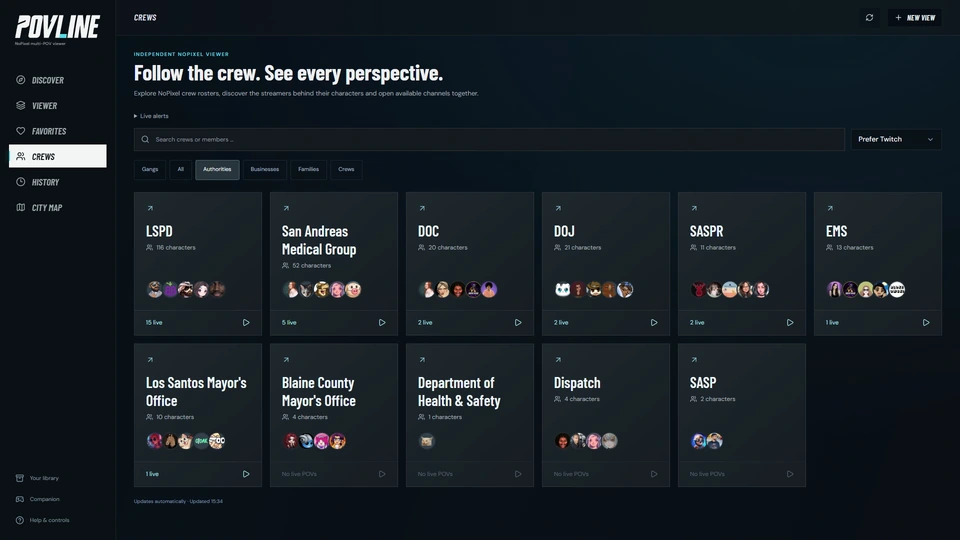
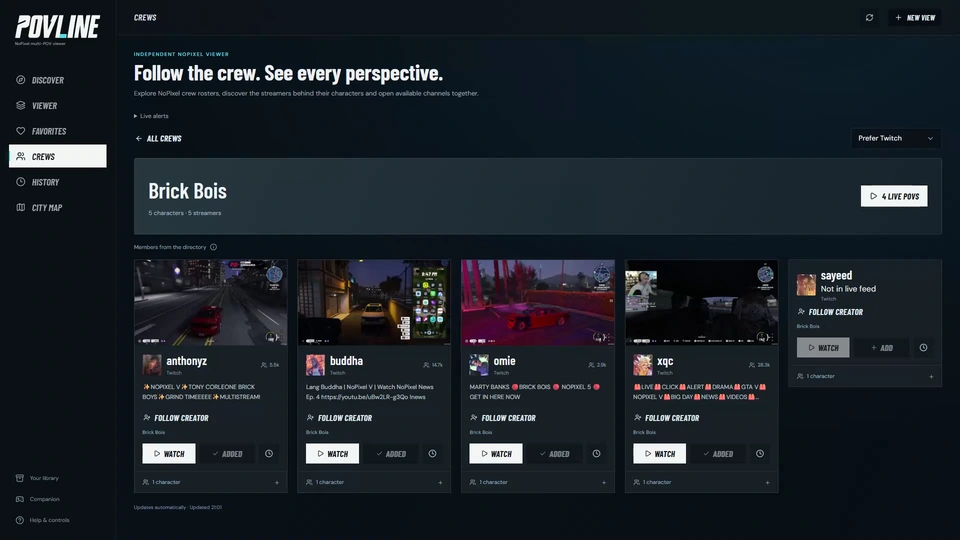
Refresh POVLINE screenshots with the live Brick Bois crew

diff --git a/src/portfolio.ts b/src/portfolio.ts
@@ -353,10 +353,10 @@ export const work: CaseStudy[] = [
     "imageWidth": 1920,
     "imageHeight": 1080,
     "alt": {
-      "en": "POVLINE’s actual four-pane viewer with Twitch and Kick stream previews for an LSPD crew."
+      "en": "POVLINE’s actual four-pane Brick Bois workspace with live Twitch channel previews from anthonyz, buddha, omie, and xqc."
     },
     "caption": {
-      "en": "Four-pane workspace · source-provided stream previews"
+      "en": "Brick Bois · four perspectives · source-provided live previews"
     },
     "intro": {
       "en": "A roleplay story unfolds across people, channels, and places. Following it through separate stream tabs loses the connections. POVLINE is an independent NoPixel viewing companion that joins those pieces: discover creators and crews, assemble the perspectives you care about, explore reported city events, and return to moments through broadcast history. I built the product experience and the data infrastructure together."
@@ -404,10 +404,10 @@ export const work: CaseStudy[] = [
         "imageWidth": 1920,
         "imageHeight": 1080,
         "alt": {
-          "en": "POVLINE’s actual authorities crew directory showing LSPD, medical, justice and other groups with roster sizes and available live perspectives."
+          "en": "POVLINE’s Brick Bois roster with five creators, four available live perspectives, stream previews, and controls for following or opening the crew together."
         },
         "caption": {
-          "en": "Crew discovery · public community data"
+          "en": "Brick Bois roster · four live perspectives · public community data"
         },
         "title": {
           "en": "Follow people, not a pile of tabs."

diff --git a/VERIFICATION.md b/VERIFICATION.md
@@ -5,6 +5,20 @@ Deployment status is reported by the connected GitHub/Cloudflare checks.
 
 ## Completed
 
+## POVLINE screenshot refresh — 5 October 2026
+
+- Replaced the viewer and crew-discovery images with genuine 1920×1080 captures
+  from the running POVLINE application while four Brick Bois channels were live:
+  anthonyz, buddha, omie, and xqc. The roster includes all five directory members
+  and accurately shows sayeed as absent from the live feed.
+- The workspace retains its actual paused, source-provided previews and controls.
+  Captions and alternative text identify the crew and previews. No playback,
+  shared event, or synchronization is fabricated. The map/history captures remain.
+- Exported 960px and 1440px WebP variants alongside the full-size captures.
+  Reviewed both images inside the portfolio at 1440×900 and 390×844, with no
+  horizontal overflow; the roster's full-image view loads the 1920×1080 asset
+  and closes with Escape. `npm run check` and `npm run check:release` pass.
+
 ## Live hosting verification — 5 October 2026
 
 - Commit `c34c3ad` deployed successfully to Cloudflare Pages. The public domain

diff --git a/README.md b/README.md
@@ -140,8 +140,10 @@ the Open Graph card using the raster star; it requires Python and Pillow.
   The owner confirmed the repository is private; its case study uses the local
   source as evidence and does not offer an inaccessible public source link.
 - **POVLINE / NoPixel Viewer:** four 1920×1080 captures from the running
-  application using public community feeds: the four-pane viewer, police-crew
-  discovery, an incident map, and broadcast-overlap history. Source-provided
+  application using public community feeds: the four-pane Brick Bois viewer,
+  their five-creator roster, an incident map, and broadcast-overlap history.
+  The viewer and roster were refreshed while four Brick Bois channels were live
+  on 5 October 2026. Source-provided
   previews are genuine; the selected viewer's players remain paused. Broadcast
   timing is not described as frame-accurate synchronization. Described as an
   independent fan project.
